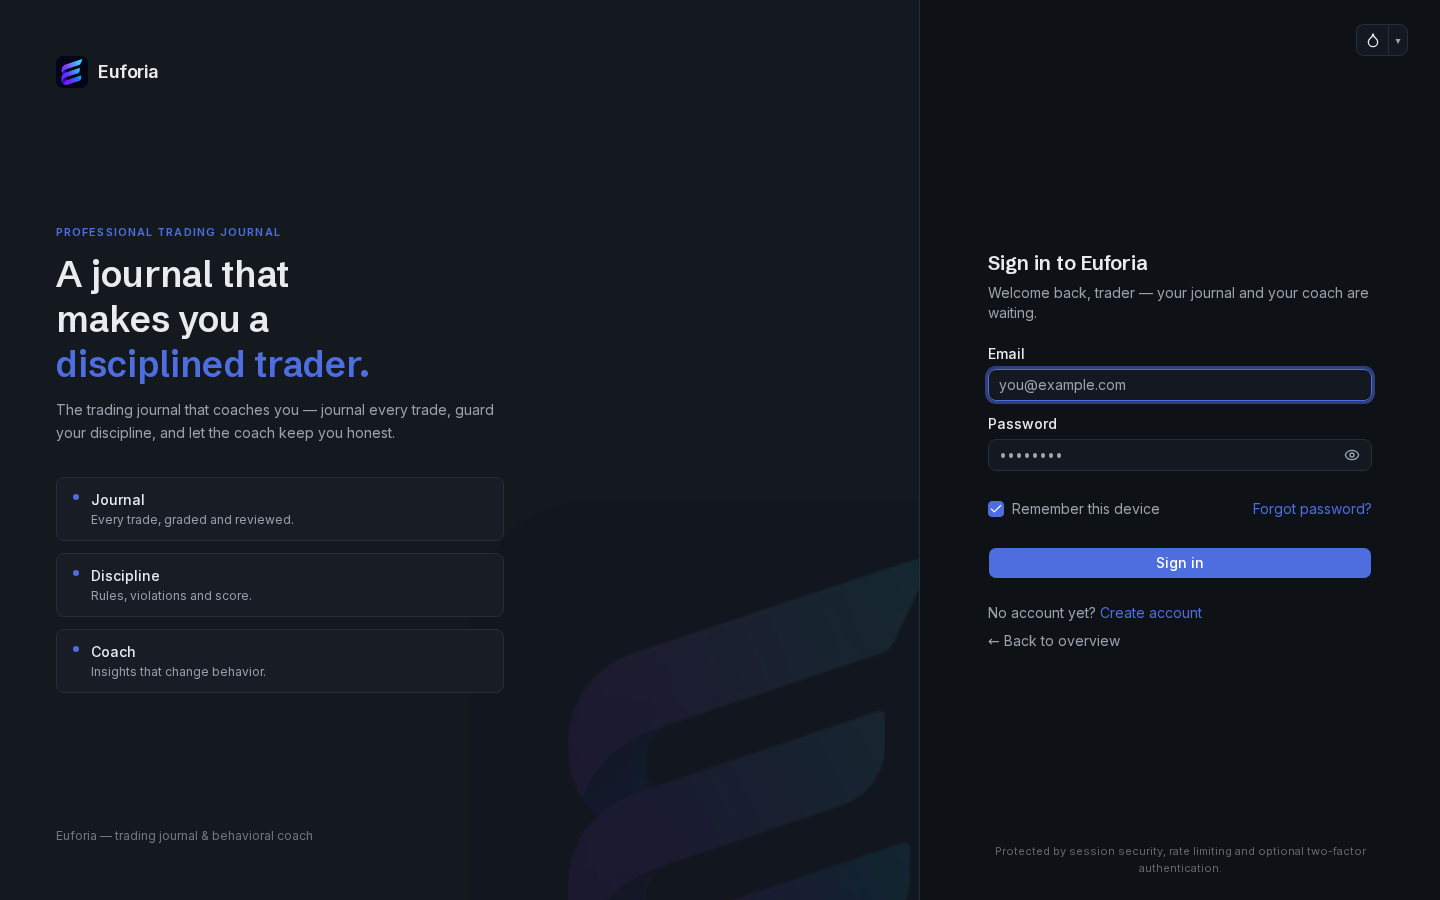
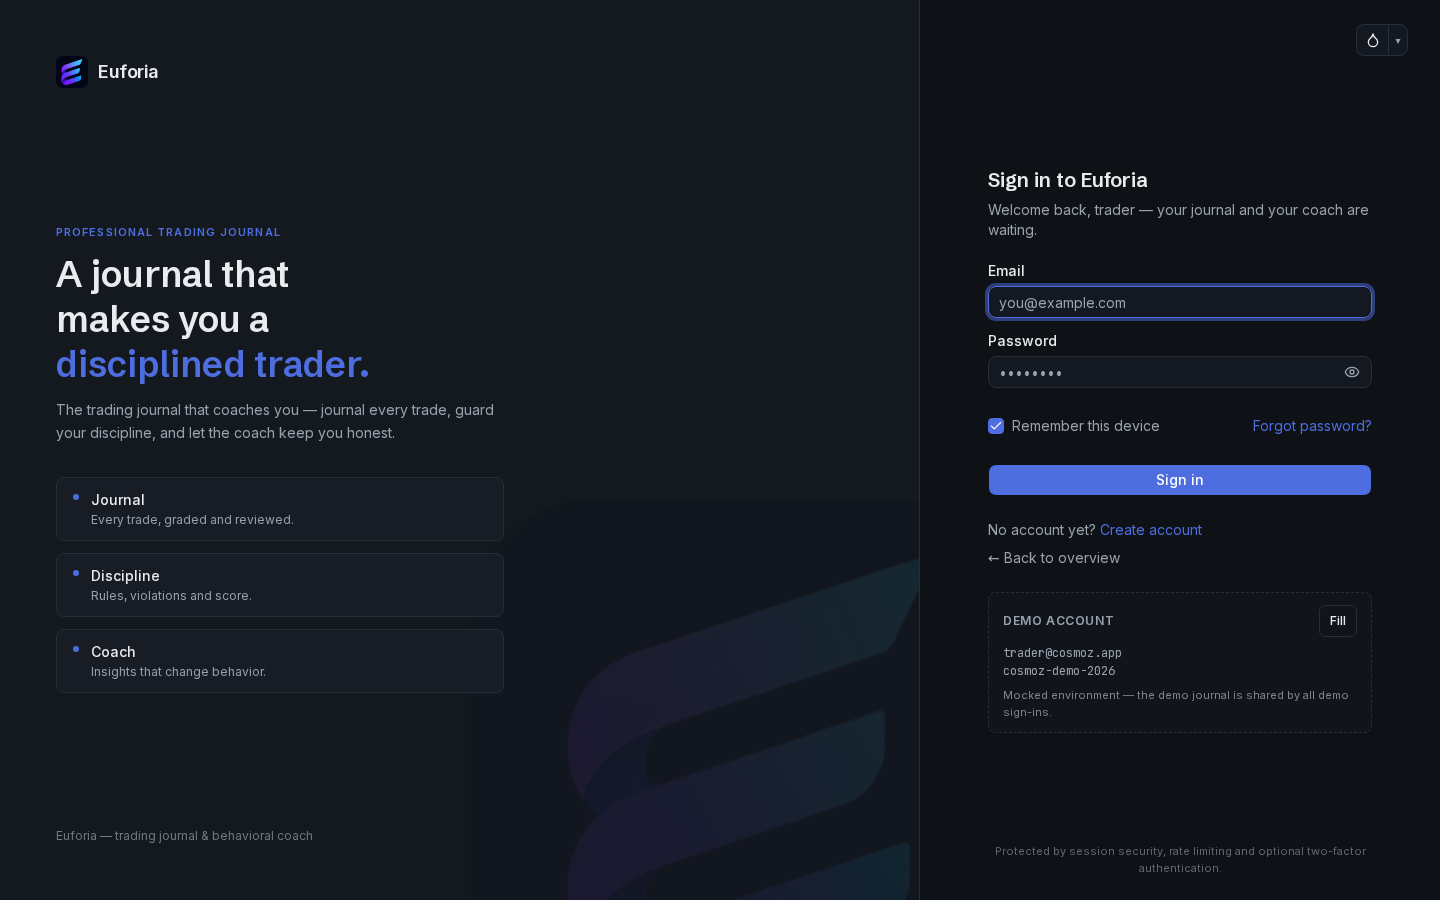
fix(auth): demo credentials panel was hidden on the zero-env canonical preview
Root cause of the user-reported login lockout: two divergent mock-mode
checks. MockProvider treats mocking as the DEFAULT (mocked unless
API_MOCKED=false or API_LIVE=true — the canonical preview needs zero
env), but the auth demo affordances tested the strict legacy
NEXT_PUBLIC_API_MOCKED === 'true' — undefined on the zero-env preview,
so the mock layer was active while every demo-credentials panel stayed
hidden: a working mock login with no visible way to sign in.

- src/lib/api/mode.ts — single canonical API_MOCKED constant, imported
  by MockProvider + login/register/forgot forms + auth-gate + dev-hooks
- login panel now displays BOTH demo credentials (email + password) —
  the Fill button fills them, but the values are no longer a guessing game
- verify-rebrand.js — brand-word check strips the seeded demo identity
  (trader@cosmoz.app / cosmoz-demo-2026 are connection data, not brand
  copy) and now asserts the demo panel is visible; 17/17 green
- tsc + eslint clean; login end-to-end re-verified on a fresh build

Changed region(s): [[0.6875, 0.1867, 0.9688, 0.7778], [0.9062, 0.6844, 0.9375, 0.7156], [0.875, 0.7467, 0.9062, 0.7778]]

diff --git a/apps/web/src/components/auth/login-form.tsx b/apps/web/src/components/auth/login-form.tsx
@@ -14,6 +14,7 @@ import {
   useMfaRecoveryMutation,
 } from "@/lib/api/queries/auth";
 import { apiErrorMessage, apiErrorCode } from "@/lib/api/client";
+import { API_MOCKED } from "@/lib/api/mode";
 import { setAccessToken } from "@/lib/auth/token-store";
 import { useAuth } from "@/components/auth/auth-provider";
 import { useDict } from "@/i18n/i18n-provider";
@@ -73,7 +74,9 @@ export function LoginForm() {
   const mfaChallenge = useMfaChallengeMutation();
   const mfaRecovery = useMfaRecoveryMutation();
 
-  const mocked = process.env.NEXT_PUBLIC_API_MOCKED === "true";
+  // Canonical mode check (mode.ts) — the zero-env canonical preview is
+  // mocked, so the demo affordances must be visible there too.
+  const mocked = API_MOCKED;
 
   function mapError(error: unknown): { body: string; hint?: string } {
     const code = apiErrorCode(error);
@@ -369,9 +372,10 @@ export function LoginForm() {
               {auth.login.demoHintFill}
             </button>
           </div>
-          <p className="font-mono text-xs text-muted-foreground">
-            trader@cosmoz.app
-          </p>
+          <div className="flex flex-col gap-0.5 font-mono text-xs text-muted-foreground">
+            <span data-testid="login-demo-email">trader@cosmoz.app</span>
+            <span data-testid="login-demo-password">cosmoz-demo-2026</span>
+          </div>
           <p className="text-[11px] text-muted-foreground/80">
             {auth.login.demoHintNote}
           </p>

diff --git a/apps/web/scripts/verify-rebrand.js b/apps/web/scripts/verify-rebrand.js
@@ -36,7 +36,15 @@ const fs = require("fs");
   await page.waitForTimeout(800);
   const body = await page.locator("body").innerText();
   /euforia/i.test(body) ? ok("Euforia text present") : bad("no Euforia text");
-  /cosmoz/i.test(body) ? bad("Cosmoz text still visible") : ok("no Cosmoz text");
+  // The seeded demo identity keeps its @cosmoz.app email + cosmoz-demo-2026
+  // password (connection data, not brand copy) and the demo panel displays
+  // both — strip them before the brand-word check.
+  const brandText = body
+    .replace(/[\w.+-]+@cosmoz\.app/g, "")
+    .replace(/cosmoz-demo-2026/g, "");
+  /cosmoz/i.test(brandText) ? bad("Cosmoz text still visible") : ok("no Cosmoz text");
+  const demoHint = await page.locator('[data-testid="login-demo-hint"]').isVisible().catch(() => false);
+  demoHint ? ok("demo credentials panel visible") : bad("demo panel hidden");
   const brandSvgs = await page.locator('svg[aria-label="Euforia"], svg[aria-hidden="true"]').count();
   brandSvgs > 0 ? ok(`brand mark svg count = ${brandSvgs}`) : bad("no brand svg");
   const title = await page.title();

diff --git a/apps/web/src/lib/api/mode.ts b/apps/web/src/lib/api/mode.ts
@@ -1,0 +1,17 @@
+/**
+ * Canonical API-mode check — the single source of truth for "is the mock
+ * layer active". Mocking is the DEFAULT (the canonical preview needs zero
+ * env); the two ways to leave mock mode:
+ *   - NEXT_PUBLIC_API_MOCKED=false (explicit legacy switch)
+ *   - NEXT_PUBLIC_API_LIVE=true (the live bridge — explicit opt-in)
+ *
+ * ⚠ History: the demo affordances (login/register/forgot panels,
+ * auth-gate, dev hooks) used to test `NEXT_PUBLIC_API_MOCKED === "true"`
+ * while MockProvider defaulted to mocked-on-undefined — on the zero-env
+ * canonical preview the mock layer was ACTIVE but every demo-credentials
+ * panel was HIDDEN, leaving users a working mock login with no visible
+ * way to sign in. Always import this constant instead of re-deriving.
+ */
+export const API_MOCKED =
+  process.env.NEXT_PUBLIC_API_MOCKED !== "false" &&
+  process.env.NEXT_PUBLIC_API_LIVE !== "true";

diff --git a/apps/web/src/components/auth/forgot-password-form.tsx b/apps/web/src/components/auth/forgot-password-form.tsx
@@ -11,6 +11,7 @@ import { Button } from "@/components/ui/button";
 import { Input } from "@/components/ui/input";
 import { useForgotPasswordMutation } from "@/lib/api/queries/auth";
 import { apiErrorMessage, apiErrorCode } from "@/lib/api/client";
+import { API_MOCKED } from "@/lib/api/mode";
 import { useDict } from "@/i18n/i18n-provider";
 import {
   AuthField,
@@ -35,7 +36,7 @@ export function ForgotPasswordForm() {
   const [formError, setFormError] = React.useState<string | null>(null);
   const [sent, setSent] = React.useState<ForgotPasswordResponse | null>(null);
 
-  const mocked = process.env.NEXT_PUBLIC_API_MOCKED === "true";
+  const mocked = API_MOCKED;
 
   function submit(event: React.FormEvent) {
     event.preventDefault();

diff --git a/apps/web/src/components/auth/register-form.tsx b/apps/web/src/components/auth/register-form.tsx
@@ -11,6 +11,7 @@ import { Button } from "@/components/ui/button";
 import { Input } from "@/components/ui/input";
 import { useRegisterMutation, useResendVerificationMutation } from "@/lib/api/queries/auth";
 import { apiErrorMessage, apiErrorCode } from "@/lib/api/client";
+import { API_MOCKED } from "@/lib/api/mode";
 import { useDict } from "@/i18n/i18n-provider";
 import {
   AuthField,
@@ -42,7 +43,7 @@ export function RegisterForm() {
   const [pending, setPending] = React.useState<RegisterResponse | null>(null);
   const [resent, setResent] = React.useState(false);
 
-  const mocked = process.env.NEXT_PUBLIC_API_MOCKED === "true";
+  const mocked = API_MOCKED;
 
   function submit(event: React.FormEvent) {
     event.preventDefault();

diff --git a/apps/web/src/components/auth/auth-gate.tsx b/apps/web/src/components/auth/auth-gate.tsx
@@ -10,6 +10,7 @@ import { EuforiaLogo } from "@/components/brand/euforia-logo";
 import { useAuth } from "@/components/auth/auth-provider";
 import { useResendVerificationMutation } from "@/lib/api/queries/auth";
 import { apiErrorCode } from "@/lib/api/client";
+import { API_MOCKED } from "@/lib/api/mode";
 import { useDict } from "@/i18n/i18n-provider";
 
 /**
@@ -48,7 +49,7 @@ function VerificationRequiredScreen() {
   const [resent, setResent] = React.useState(false);
   const [error, setError] = React.useState<string | null>(null);
 
-  const mocked = process.env.NEXT_PUBLIC_API_MOCKED === "true";
+  const mocked = API_MOCKED;
 
   function requestNew() {
     if (!user?.email) return;

diff --git a/apps/web/src/components/providers/mock-provider.tsx b/apps/web/src/components/providers/mock-provider.tsx
@@ -2,6 +2,8 @@
 
 import * as React from "react";
 
+import { API_MOCKED } from "@/lib/api/mode";
+
 /**
  * Boots the MSW worker before rendering children — but ONLY when mocking is
  * active. Mocking is the DEFAULT (the canonical preview needs zero env); the
@@ -31,9 +33,7 @@ function startWorkerOnce(): Promise<void> {
 }
 
 export function MockProvider({ children }: { children: React.ReactNode }) {
-  const mocked =
-    process.env.NEXT_PUBLIC_API_MOCKED !== "false" &&
-    process.env.NEXT_PUBLIC_API_LIVE !== "true";
+  const mocked = API_MOCKED;
   // SSR and first client render agree: not ready when mocking, ready otherwise.
   const [ready, setReady] = React.useState(!mocked);
 

diff --git a/apps/web/src/lib/auth/dev-hooks.ts b/apps/web/src/lib/auth/dev-hooks.ts
@@ -1,4 +1,5 @@
 import { forceExpireAccessTokenForTesting } from "@/lib/auth/token-store";
+import { API_MOCKED } from "@/lib/api/mode";
 
 /**
  * Dev/test-only window hooks (spec-compliant: no secrets exposed, mock
@@ -13,7 +14,7 @@ export function registerDevAuthHooks(hooks: {
   /** Re-fetch guarded queries (profile, trades) through the real queryClient. */
   refetchGuarded: () => void;
 }): void {
-  if (process.env.NEXT_PUBLIC_API_MOCKED !== "true") return;
+  if (!API_MOCKED) return;
   if (process.env.NODE_ENV === "production") return;
   if (typeof window === "undefined") return;
 

diff --git a/apps/web/src/mocks/browser.ts b/apps/web/src/mocks/browser.ts
@@ -4,7 +4,8 @@ import { handlers } from "./handlers";
 
 /**
  * Browser worker — started by MockProvider before children render, ONLY when
- * NEXT_PUBLIC_API_MOCKED === "true". Components never import this module.
+ * the canonical mode check (lib/api/mode.ts API_MOCKED) says so. Components
+ * never import this module.
  */
 export const worker = setupWorker(...handlers);
 
